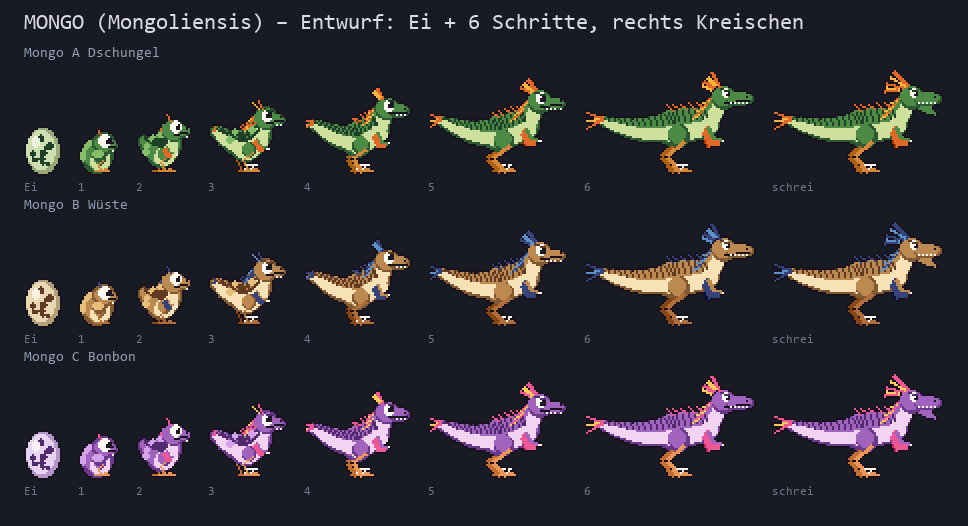
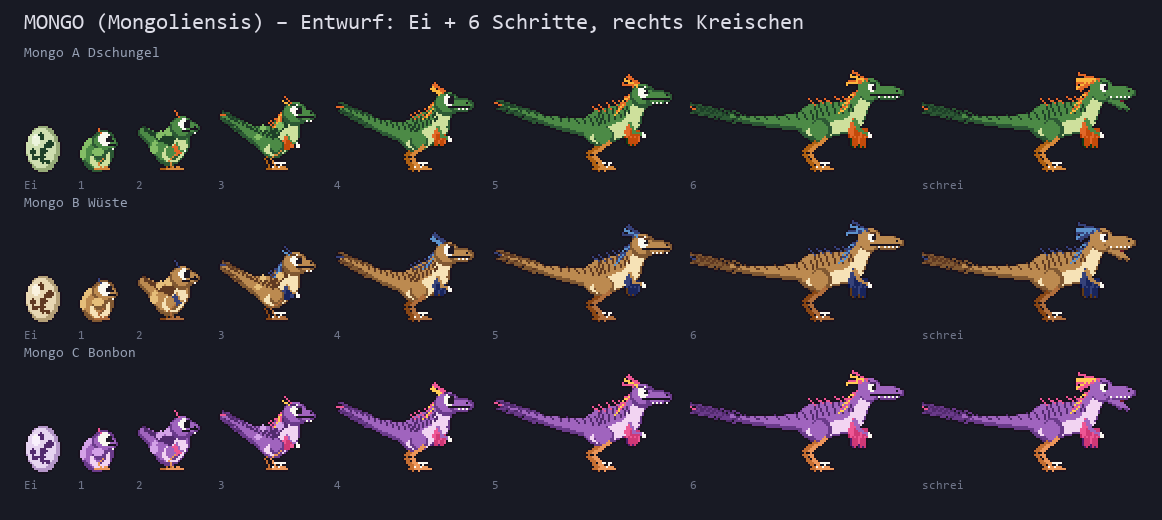
Doku: Mongo-Entwurf ausgewachsen näher am echten Raptor – langer dünner Schwanz, dunkler Rücken, Flügelfedern

diff --git a/docs/assets/critter-pet/dcc_entwurf.py b/docs/assets/critter-pet/dcc_entwurf.py
@@ -105,11 +105,11 @@ def mongo(stufe, p, pose="stehen"):
     d = ImageDraw.Draw(img)
     ox, oy = 62, 96  # Hüfte x, Boden y
 
-    bein = lerp(4.5, 19, t)
+    bein = lerp(4.5, 21, t)
     rk = lerp(6.8, 8.6, t)  # Rumpfdicke
     hip = (ox, oy - bein - rk * 0.45)
     w = math.radians(lerp(-62, -10, t))
-    lang = lerp(2.5, 17, t)
+    lang = lerp(2.5, 19, t)
     sch = (hip[0] + math.cos(w) * lang, hip[1] + math.sin(w) * lang)
     wn = math.radians(lerp(-82, -58, t))
     hl = lerp(3.5, 13, t)
@@ -118,16 +118,18 @@ def mongo(stufe, p, pose="stehen"):
     kopf = (hals[0] + kr * 0.35, hals[1] - kr * 0.25)
 
     # Schwanz: nach hinten, beim Küken aufgestellter Bürzel
-    sl = lerp(4, 36, t)
-    sa = math.radians(lerp(-140, -176, t))
-    s1 = (hip[0] + math.cos(sa) * sl * 0.5, hip[1] + math.sin(sa) * sl * 0.5 + lerp(0, 2, t))
-    s2 = (hip[0] + math.cos(sa) * sl, hip[1] + math.sin(sa) * sl + lerp(0, -1, t))
+    # Mark 15.11.: Schwanz dünner und länger wie beim echten Raptor — lang, steif,
+    # fast waagrecht, zur Spitze leicht ansteigend.
+    sl = lerp(4, 60, t)
+    sa = math.radians(lerp(-140, -178, t))
+    s1 = (hip[0] + math.cos(sa) * sl * 0.5, hip[1] + math.sin(sa) * sl * 0.5 + lerp(0, 0.5, t))
+    s2 = (hip[0] + math.cos(sa) * sl, hip[1] + math.sin(sa) * sl - lerp(0, 4, t))
     schwanz = kette([s2, s1, hip])
     rumpf = kette([hip, sch])
     halsk = kette([sch, hals])
 
     def r_schwanz(s):
-        return lerp(lerp(2.2, 1.1, t), rk * 0.85, s ** 0.8)
+        return lerp(lerp(2.2, 0.6, t), rk * lerp(0.85, 0.62, t), s ** lerp(0.8, 2.2, t))
 
     def r_rumpf(s):
         return lerp(rk, rk * lerp(0.95, 0.78, t), s)
@@ -164,10 +166,17 @@ def mongo(stufe, p, pose="stehen"):
             return
         ell_ = (a0[0] + lerp(1, 3, t), a0[1] + lerp(2, 5, t))
         hand = (ell_[0] + lerp(1, 4, t), ell_[1] + lerp(0.5, 1.5, t))
-        fl = lerp(1.5, 5, t)
+        fl = lerp(1.5, 8, t)
         d.polygon([a0, ell_, hand, (hand[0] - 1, hand[1] + fl * 0.6), (ell_[0] - 1.5, ell_[1] + fl), (a0[0] - 2, a0[1] + fl * 0.7)],
                   fill=F if vorne else tuple(max(0, v - 50) if i < 3 else v for i, v in enumerate(F)))
+        if t >= 0.4:  # gefaltete Flügelfedern hängen unter dem Arm, Spitzen gezackt
+            fd = tuple(max(0, v - 30) if i < 3 else v for i, v in enumerate(F if vorne else D))
+            for k in range(int(lerp(2, 6, t))):
+                fx = ell_[0] - 1.5 + k * 1.1
+                d.line([(fx, ell_[1]), (fx - 1, ell_[1] + fl * (0.9 + 0.12 * (k % 2)))], fill=fd, width=1)
         d.line([a0, ell_, hand], fill=M if vorne else D, width=2 if t > 0.5 else 1)
+        if t >= 0.4:  # Krallen
+            d.line([(hand[0] + 1, hand[1]), (hand[0] + 2, hand[1] + 2)], fill=W)
         d.point((round(hand[0] + 1), round(hand[1])), fill=W)
 
     bein_malen(False)
@@ -179,15 +188,17 @@ def mongo(stufe, p, pose="stehen"):
             ell(d, x, y + 0.4, rf(s), rf(s), D)
     for pk, rf in teile:
         for x, y, s in pk:
-            r = rf(s) - 0.9
-            ell(d, x - 0.3, y - 0.6, r, r, M)
+            r = max(0.0, rf(s) - 0.9)
+            ell(d, x - 0.3, y - 0.6 * min(1.0, rf(s) / 2), r, r, M)
     # Bauch
-    for pk, rf, an in ((rumpf, r_rumpf, True), (halsk, r_hals, True), (schwanz, r_schwanz, t > 0.3)):
+    # Bauch: beim Großen nur ein schmaler heller Streifen unten, der Rücken dominiert
+    bh = lerp(0.42, 0.3, t)
+    for pk, rf, an in ((rumpf, r_rumpf, True), (halsk, r_hals, True), (schwanz, r_schwanz, False)):
         if not an:
             continue
         for x, y, s in pk:
             r = rf(s)
-            ell(d, x + r * 0.15, y + r * 0.45, r * 0.62, r * 0.42, B)
+            ell(d, x + r * 0.15, y + r * lerp(0.45, 0.6, t), r * 0.62, r * bh, B)
     # Rückenstreifen und Rückenfedern
     if t >= 0.2:
         alle = schwanz + rumpf
@@ -215,17 +226,23 @@ def mongo(stufe, p, pose="stehen"):
             x = hip[0] + math.cos(a) * (rk + 0.3)
             y = hip[1] - 1 + math.sin(a) * (rk + 0.3)
             ell(d, x, y, 1.2, 1.2, L)
-    # Schwanzfächer
+    # Federsaum am hinteren Schwanzdrittel (statt Fächer, wie beim echten Raptor)
     if t >= 0.35:
+        fl = lerp(1, 3.5, (t - 0.35) / 0.65)
+        ende = int(len(schwanz) * 0.4)
+        for i in range(2, ende, 5):
+            x, y, s_ = schwanz[i]
+            r = r_schwanz(s_)
+            farbe = D if (i // 5) % 2 else S
+            d.line([(x + 0.5, y - r), (x - fl, y - r - fl * 0.5)], fill=farbe, width=1)
+            d.line([(x + 0.5, y + r), (x - fl, y + r + fl * 0.4)], fill=farbe, width=1)
         x, y, _ = schwanz[0]
-        fl = lerp(0, 7, (t - 0.35) / 0.65)
-        for k, (dx, dy) in enumerate(((-1, -0.55), (-1, 0), (-1, 0.5))):
-            d.polygon([(x + 1, y - 1), (x + 1, y + 1), (x + dx * fl, y + dy * fl + 1)], fill=F if k != 1 else F2)
+        d.line([(x, y), (x - fl * 1.3, y - 0.5)], fill=F, width=1)
 
     # Kopf
     kx, ky = kopf
     offen = pose == "kreischen"
-    sn = lerp(1.6, 9, t)
+    sn = lerp(1.6, 11, t)
     if offen:  # Unterkiefer klappt runter
         uk = Image.new("RGBA", img.size, (0, 0, 0, 0))
         ud = ImageDraw.Draw(uk)
@@ -266,7 +283,7 @@ def mongo(stufe, p, pose="stehen"):
         bx = kx - kr * 0.2 - k * 1.6
         by = ky - kr * 0.75 + k * 0.6
         hl_ = lerp(2.5, 7.5, t) * (1 - k * 0.12) * (1.35 if offen else 1)
-        wk = math.radians(-120 - k * 14 - (15 if offen else 0))
+        wk = math.radians(lerp(-120, -150, t) - k * 14 - (15 if offen else 0))
         d.line([(bx, by), (bx + math.cos(wk) * hl_, by + math.sin(wk) * hl_)], fill=F if k % 2 == 0 else F2, width=2 if t > 0.5 else 1)
 
     bein_malen(True)

diff --git a/docs/wiki/entities/critter-pet.md b/docs/wiki/entities/critter-pet.md
@@ -464,6 +464,7 @@ Mark: „Ich hätte gerne 2 Pets aus Dungeon Crawler Carl, und zwar einen Mongol
   - KI-Futter im Datenmodell: eigenes Häkchen neben „Tierfutter“ oder eine Auswahl „Futter für“; Wirkung (heilen, Zutraulichkeit, Wachstum) und Optik.
   - Woran sie hängen: naheliegend am Critter wie der Drache (noch nicht bestätigt).
   - Design: Entwurfstafeln `docs/assets/critter-pet/mongo_entwurf.png` und `tummy_entwurf.png` (Generator `dcc_entwurf.py`), je drei Farbvarianten (Mongo: Dschungel, Wüste, Bonbon; Tummy-Acher: Rosa, Pfirsich, Lila), Ei + 6 Schritte plus Kreischen bzw. Mampf/Platt. Mark wählt.
+  - Nachschärfung 15.11. (Mark mit Velociraptor-Referenzbild): „Schwanz dünner und länger, ganz ausgewachsen ein wenig mehr wie auf dem Bild“. Umgesetzt: Schwanz fast doppelt so lang, dünn zulaufend, waagrecht steif mit Federsaum statt Fächer; Rücken dunkel, Bauch nur noch schmaler Streifen; längere Schnauze und Beine; gefaltete Flügelfedern mit Krallen; Kamm liegt beim Großen nach hinten. Küken-Stufen fast unverändert.
 
 ## Offene Achsen (Stand vor 11.11.-Antwort)
 
